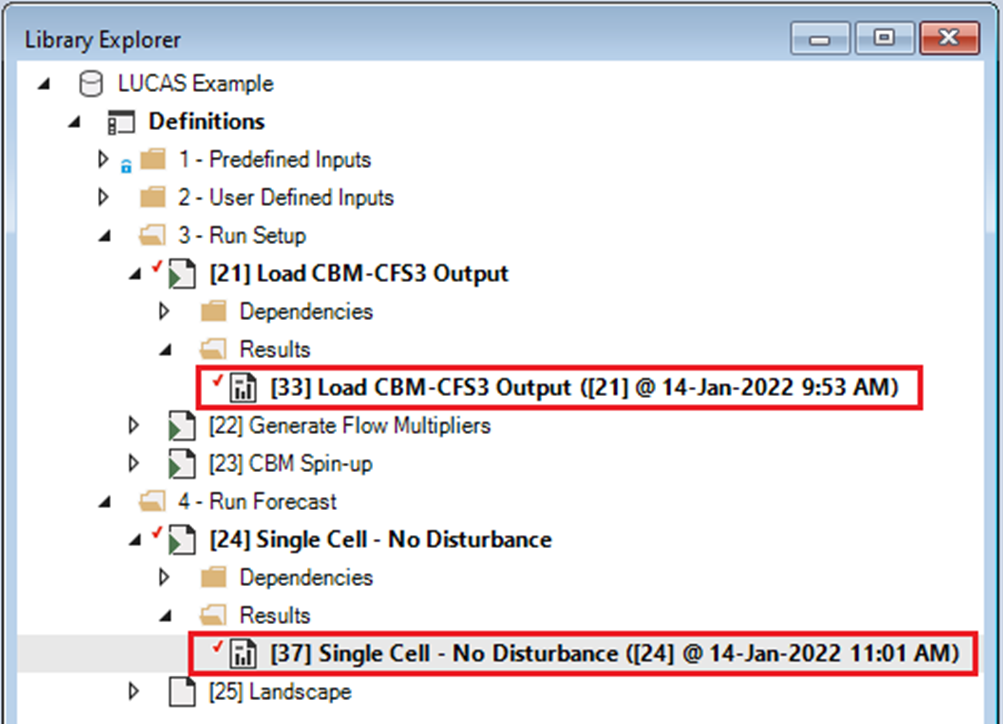
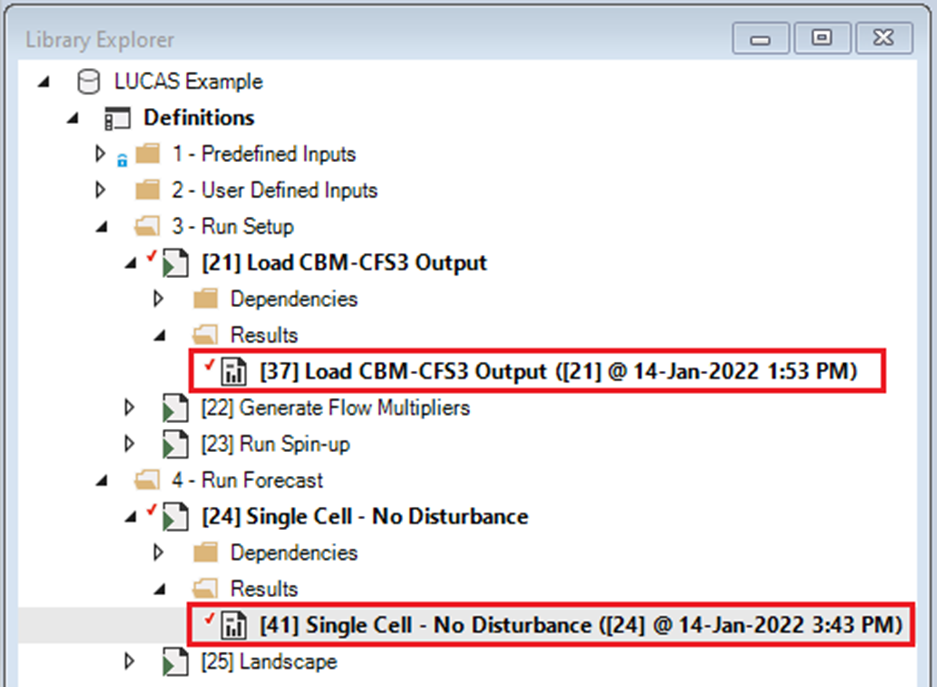
Finished step 5 text, added screen cap 13, replaced screencap 11

Changed region(s): [[0.0, 0.0, 1.0, 1.0]]

diff --git a/docs/getting_started.md b/docs/getting_started.md
@@ -87,5 +87,12 @@ In the toolbar, enable **Multiprocessing** with 3 jobs. This will cut down t
 <img align="middle" style="padding: 3px" width="575" src="assets/images/screencap-8.png">
 <br>
 Right-click on the **Load CBM-CFS3 Output** Scenario in the **Scenario Manager** window and select **Run** from the context menu. If prompted to save your project, click **Yes**. If the run is successful, you will see a Status of **Done** in the **Run Monitor** window, at which point you can close the **Run Monitor** window; otherwise, click on the **Run Log** link to see a report of any problems. Make any necessary changes to your Scenario, then re-run the Scenario.
+<br>
+<img align="middle" style="padding: 3px" width="500" src="assets/images/screencap-9.png">
+<br>
+Next, repeat the steps above to run the **Generate Flow Multiplier** Scenario and then the **Run Spin-up** Scenario.  
+>**Note:** The **Run Setup** and **Run Forecast** Scenarios rely on dependencies that are defined in **Predefined Inputs** and **User Defined Inputs**, as well as results from previous **Run Setup** Scenarios. For this reason, it is important the Scenarios are run in sequence.  
+
+Once the **Run Setup** Scenarios have completed successfully, the **Run Forecast** Scenarios can be run. Click on the **Single Cell – No Disturbance** and **Landscape** Scenarios to familiarize yourself with the Scenario inputs. Repeat the steps above to run the two Scenarios.
 
 ## **Step 6: Analyze the results**
